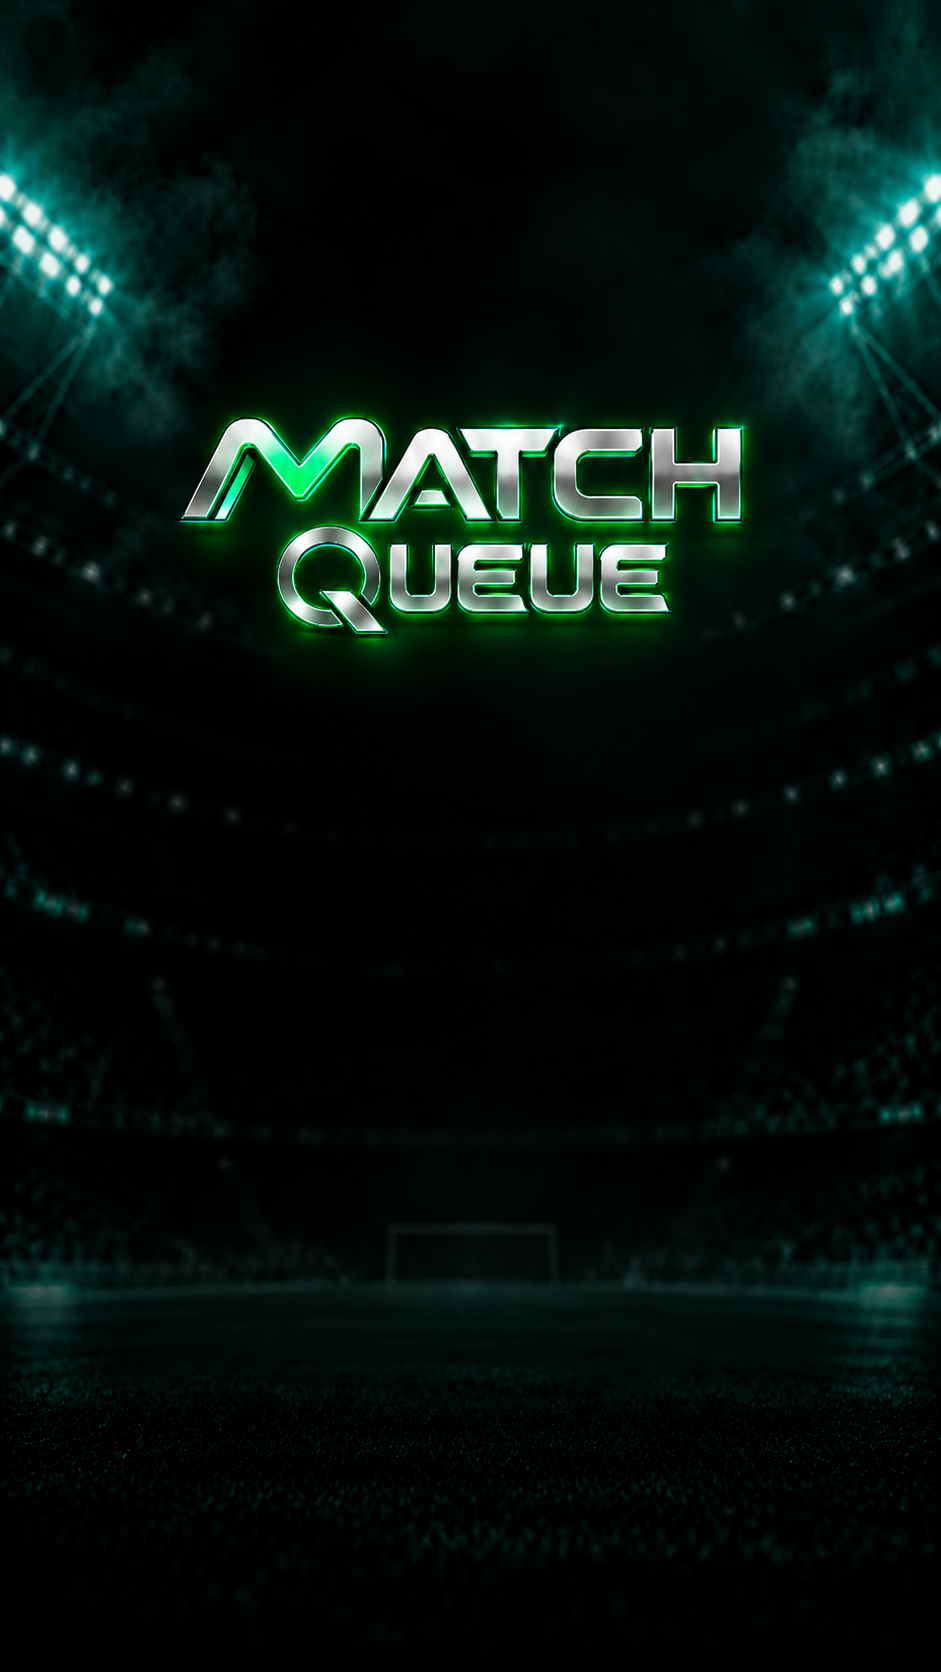
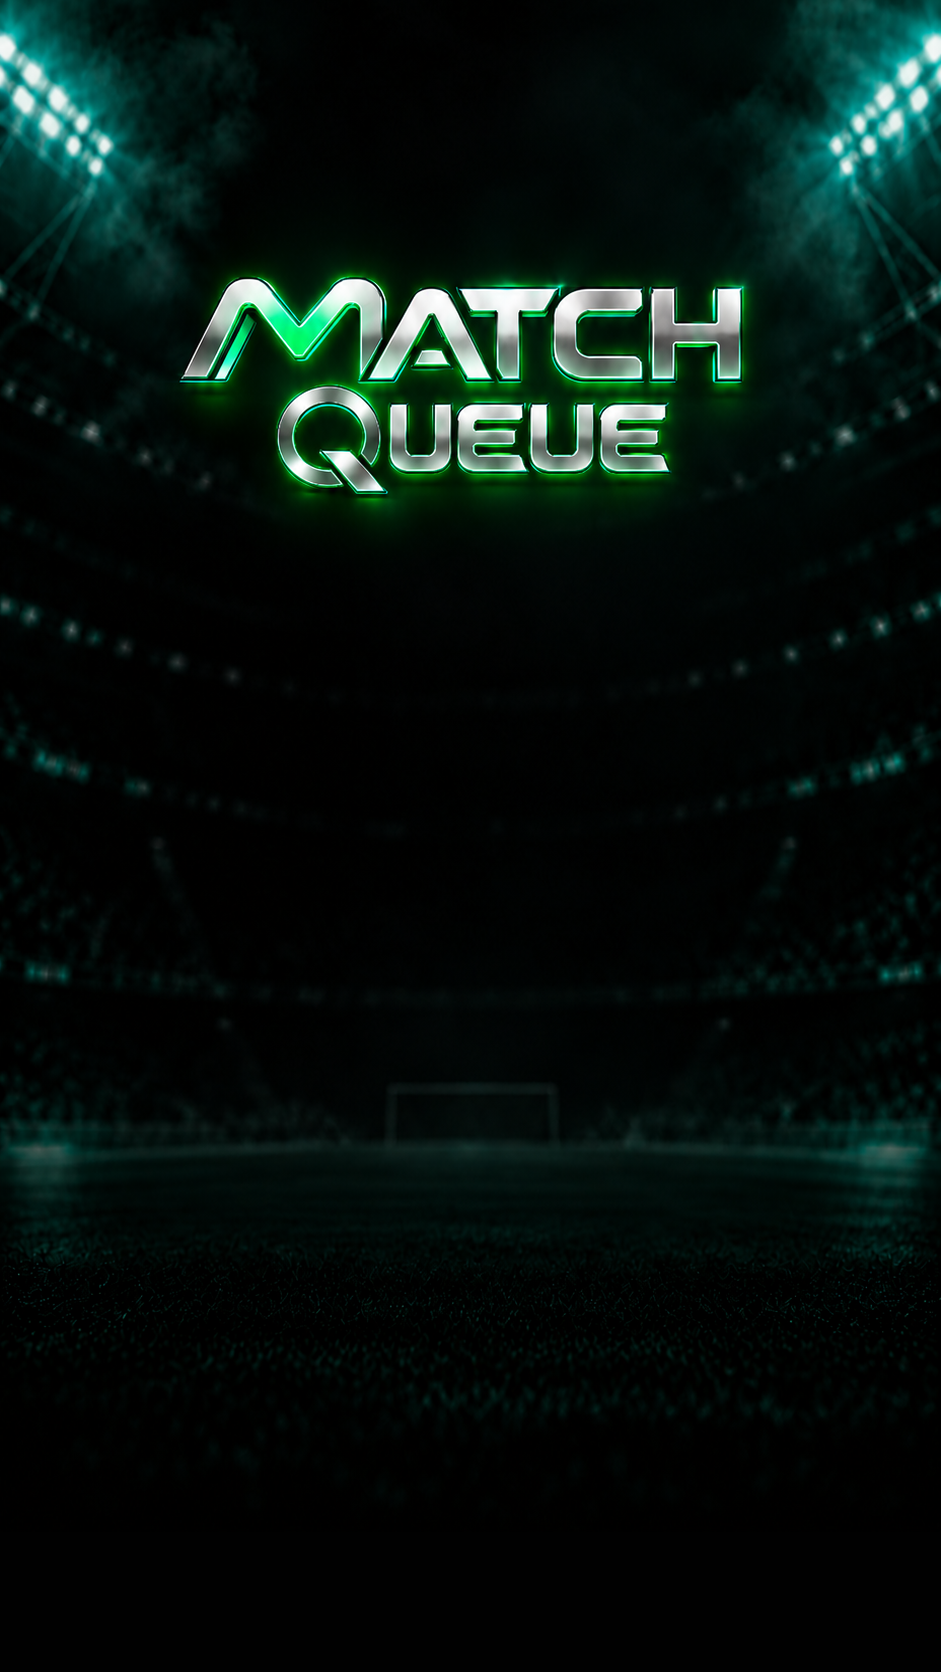
Raise the login/sign-up wordmark and pin sign-up's submit button
Both screens buried the logo well below the safe area. Login bakes it
into login_background.png, and BoxFit.cover on that image maps height
almost 1:1 to the screen (its aspect ratio is close enough to a phone's
that cover crops the sides, not top/bottom) -- so no amount of Align
tuning in code could move it; only shifting the art itself does.
Cropped 140px off the top and padded the bottom with the same near-
black tone the image already fades to there, so the wordmark now sits
noticeably higher with no visible seam.

Sign-up used a live BrandWordmark widget, so that one was a layout fix
instead: content sat inside contentAlignment(0, -0.62), but with the
submit button as the last item in the scrollable children, tall
content pushed everything down anyway. Moved the button to
AuthFormScaffold's existing (previously unused) footer slot -- pinned
outside the scroll view, the rest scrolls under it -- and pushed
contentAlignment to -0.85 now that the button no longer competes for
space above it.

Also swapped sign-up's wordmark for BrandWordmarkStyled, a live text
rendering (gradient fill + glow + drop shadow) instead of the chrome
PNG, per request -- AuthFormScaffold gained an optional `wordmark`
override for this so BrandWordmark's default stays untouched
everywhere else it's used.

diff --git a/lib/core/design_system/branding/brand_mark.dart b/lib/core/design_system/branding/brand_mark.dart
@@ -1,5 +1,6 @@
 import 'package:fifa_queue/core/design_system/branding/brand_assets.dart';
 import 'package:fifa_queue/core/design_system/theme/theme_context_extensions.dart';
+import 'package:fifa_queue/core/design_system/tokens/app_colors.dart';
 import 'package:fifa_queue/core/design_system/tokens/app_radii.dart';
 import 'package:fifa_queue/core/design_system/tokens/app_spacing.dart';
 import 'package:flutter/material.dart';
@@ -109,6 +110,50 @@ class BrandWordmark extends StatelessWidget {
       ),
     );
   }
+}
+
+/// Wordmark "MATCH QUEUE" escrita ao vivo (gradiente + brilho + sombra),
+/// em vez do PNG cromado de [BrandWordmark]. Uso pontual (hoje so o
+/// cadastro) para telas que querem a marca em texto puro; nao substitui
+/// [BrandWordmark] nos demais lugares.
+class BrandWordmarkStyled extends StatelessWidget {
+  const BrandWordmarkStyled({this.fontSize = 40, super.key});
+
+  final double fontSize;
+
+  @override
+  Widget build(BuildContext context) => Semantics(
+    label: BrandAssets.productName,
+    child: ExcludeSemantics(
+      child: ShaderMask(
+        shaderCallback: (bounds) => const LinearGradient(
+          begin: Alignment.topCenter,
+          end: Alignment.bottomCenter,
+          colors: <Color>[Colors.white, AppColors.fcGreenSoft, AppColors.fcGreenStrong],
+          stops: <double>[0, 0.55, 1],
+        ).createShader(bounds),
+        child: Text(
+          BrandAssets.productName.toUpperCase(),
+          textAlign: TextAlign.center,
+          style: TextStyle(
+            fontSize: fontSize,
+            fontWeight: FontWeight.w900,
+            letterSpacing: 2,
+            height: 1.05,
+            color: Colors.white,
+            shadows: const <Shadow>[
+              Shadow(color: AppColors.fcGreen, blurRadius: 20),
+              Shadow(
+                color: Colors.black87,
+                offset: Offset(0, 3),
+                blurRadius: 6,
+              ),
+            ],
+          ),
+        ),
+      ),
+    ),
+  );
 }
 
 class BrandLockup extends StatelessWidget {

diff --git a/lib/features/auth/presentation/widgets/auth_form_scaffold.dart b/lib/features/auth/presentation/widgets/auth_form_scaffold.dart
@@ -11,6 +11,7 @@ class AuthFormScaffold extends StatelessWidget {
     this.backTooltip,
     this.backgroundImage,
     this.showWordmark = true,
+    this.wordmark,
     this.darkBackground = false,
     this.contentAlignment,
     super.key,
@@ -32,6 +33,11 @@ class AuthFormScaffold extends StatelessWidget {
   /// BrandWordmark widget e desnecessario (ficaria duplicado/ilegivel sobre
   /// a foto).
   final bool showWordmark;
+
+  /// Sobrescreve o widget exibido quando [showWordmark] e true. Sem isso,
+  /// cai no padrao (`BrandWordmark`, o PNG cromado). Uso pontual pra telas
+  /// que querem outra variante da marca (ex.: texto ao vivo no cadastro).
+  final Widget? wordmark;
 
   /// Forca o tema escuro no fundo liso (sem [backgroundImage]), pra telas
   /// como o cadastro em que a wordmark cromada precisa do mesmo pano de
@@ -76,7 +82,7 @@ class AuthFormScaffold extends StatelessWidget {
                 crossAxisAlignment: CrossAxisAlignment.stretch,
                 children: <Widget>[
                   if (showWordmark) ...<Widget>[
-                    const Center(child: BrandWordmark(height: 76)),
+                    Center(child: wordmark ?? const BrandWordmark(height: 76)),
                     const SizedBox(height: AppSpacing.xl),
                   ],
                   Text(title, style: context.textStyles.headlineMedium),

diff --git a/lib/features/auth/presentation/pages/sign_up_page.dart b/lib/features/auth/presentation/pages/sign_up_page.dart
@@ -88,11 +88,17 @@ class _SignUpPageState extends State<SignUpPage> {
           title: l10n.signUpTitle,
           subtitle: l10n.signUpSubtitle,
           darkBackground: true,
-          contentAlignment: const Alignment(0, -0.62),
+          wordmark: const BrandWordmarkStyled(),
+          contentAlignment: const Alignment(0, -0.85),
           onBack: () => context.canPop()
               ? context.pop()
               : context.go(AppRoutes.login.path),
           backTooltip: l10n.actionBack,
+          footer: AppButton(
+            label: l10n.authSignUp,
+            isLoading: isSubmitting,
+            onPressed: _canSubmit && !isSubmitting ? _submit : null,
+          ),
           children: <Widget>[
             if (failure != null) ...<Widget>[
               AppBanner(
@@ -205,12 +211,6 @@ class _SignUpPageState extends State<SignUpPage> {
                       _onChanged(value);
                     },
                     onSubmitted: (_) => _submit(),
-                  ),
-                  const SizedBox(height: AppSpacing.xl),
-                  AppButton(
-                    label: l10n.authSignUp,
-                    isLoading: isSubmitting,
-                    onPressed: _canSubmit && !isSubmitting ? _submit : null,
                   ),
                 ],
               ),
